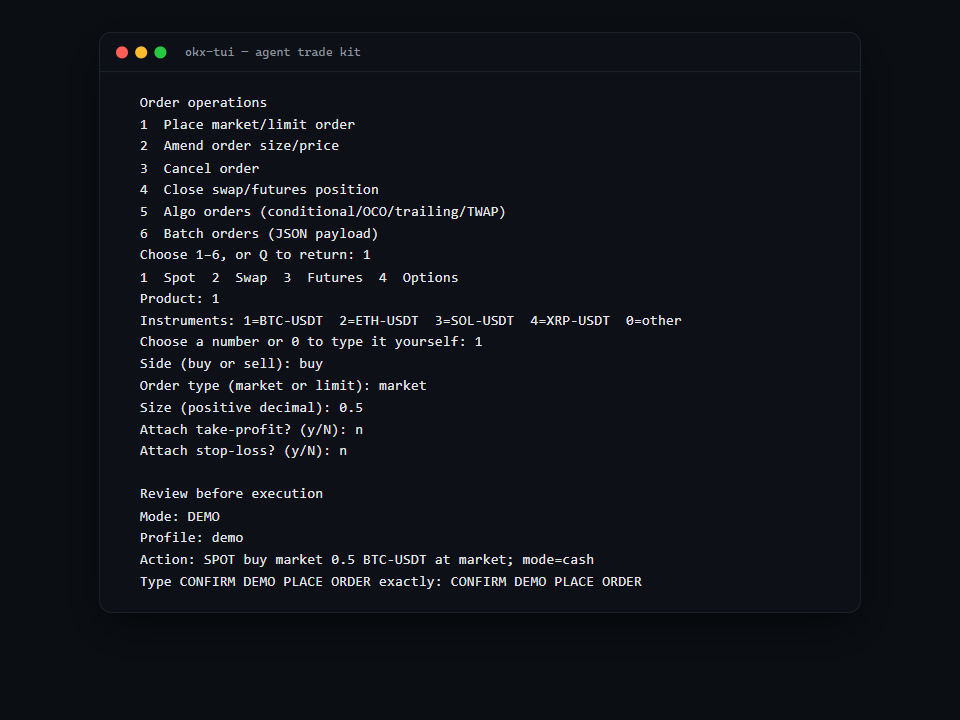
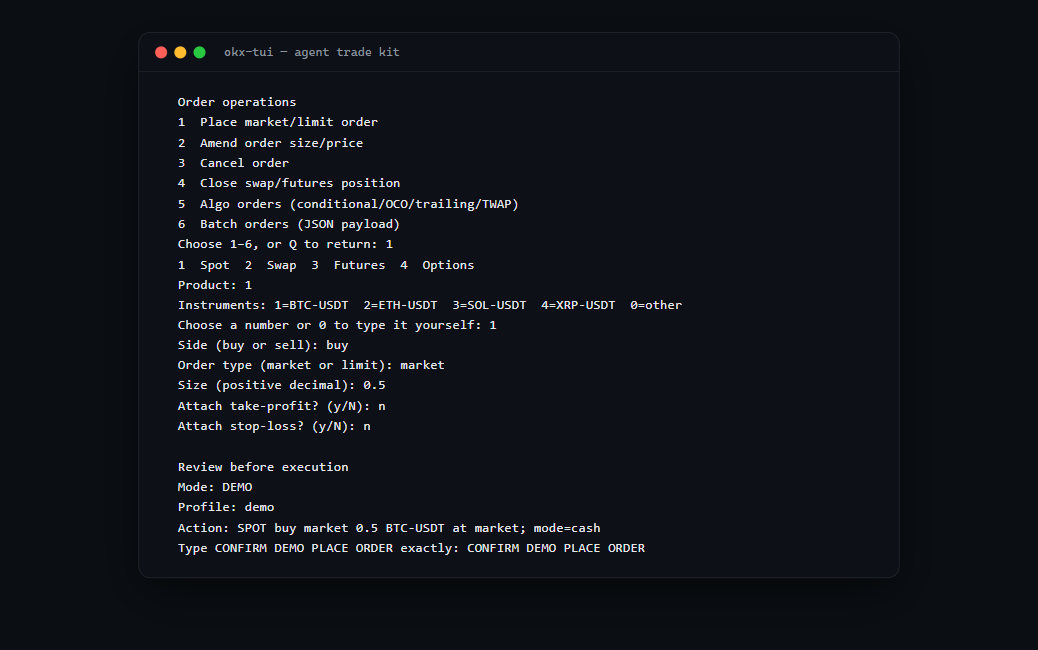
docs(cli): regenerate theming examples for the control-room layout
Generated with [Devin](https://devin.ai)

Changed region(s): [[0.125, 0.1231, 0.7188, 0.8615], [0.125, 0.0615, 0.375, 0.0923]]

diff --git a/docs/theming/examples/html/01-control-room.html b/docs/theming/examples/html/01-control-room.html
@@ -1,0 +1,43 @@
+<!doctype html><html><head><meta charset="utf-8"></head><body style="margin:0;background:#0b0f14;display:flex;justify-content:center;padding:32px;font-family:'Cascadia Code','Cascadia Mono',Consolas,Menlo,monospace">
+<div style="background:#0d1117;border:1px solid #21262d;border-radius:12px;box-shadow:0 16px 48px rgba(0,0,0,.55);min-width:760px;max-width:1240px">
+<div style="display:flex;align-items:center;gap:7px;padding:12px 16px;border-bottom:1px solid #21262d">
+<span style="width:12px;height:12px;border-radius:50%;background:#ff5f57"></span><span style="width:12px;height:12px;border-radius:50%;background:#febc2e"></span><span style="width:12px;height:12px;border-radius:50%;background:#28c840"></span>
+<span style="margin-left:12px;color:#8b949e;font-size:12px">okx-tui — agent trade kit</span></div>
+<pre style="margin:0;padding:20px 24px;color:#e5e7eb;font-size:13.5px;line-height:1.5;white-space:pre-wrap"><span style="color:#22d3ee">◆ OKX</span>  Agent Trade Kit v1.4.8   |   <span style="color:#22d3ee">Bots</span>  ·  <span style="color:#6b7280">Markets</span>  ·  <span style="color:#6b7280">Account</span>  ·  <span style="color:#6b7280">Developer</span>  ·  <span style="color:#6b7280">Docs</span>                   <span style="color:#4ade80">DEMO</span>  <span style="color:#6b7280">Profile:</span> demo  <span style="color:#4ade80">API Connected</span>
+────────────────────────────────────────────────────────────────────────────────────────────────────────────────────────────────────────────
+┌<span style="color:#22d3ee"> Navigate </span>──────────────────┐┌<span style="color:#22d3ee"> Home </span>────────────────────────────────────────────────────────────────┐┌<span style="color:#22d3ee"> Configuration </span>─────────────────────┐
+│<span style="color:#6b7280">BOT CONFIGURATION</span>           ││<span style="color:#22d3ee">Create a new bot</span>  or pick any action on the left                      ││<span style="color:#6b7280">SUMMARY</span>                             │
+│ <span style="color:#22d3ee">w</span>  Create bot wizard       ││                                                                      ││Profile                             │
+│ <span style="color:#22d3ee">1</span>  My bots &amp; preview       ││<span style="color:#4ade80">❯</span> Press W and describe your idea — e.g. "grid bot BTC 100 USDT low ris││  demo                              │
+│ <span style="color:#22d3ee">2</span>  Bot operations          ││                                                                      ││Mode                                │
+│<span style="color:#6b7280">MARKETS</span>                     ││<span style="color:#6b7280">EXAMPLES</span>                                                              ││  DEMO                              │
+│ <span style="color:#22d3ee">4</span>  Market data             ││  Grid bot with 100 USDT on BTC, low risk                             ││                                    │
+│ <span style="color:#22d3ee">5</span>  Analytics &amp; indicators  ││  DCA into ETH every dip, medium risk                                 ││<span style="color:#6b7280">VALIDATION</span>                          │
+│ <span style="color:#22d3ee">6</span>  Event contracts         ││  Contract grid on SOL with leverage                                  ││<span style="color:#4ade80">✓</span> API connection                    │
+│<span style="color:#6b7280">ACCOUNT</span>                     ││                                                                      ││  DEMO profile                      │
+│ <span style="color:#22d3ee">7</span>  Overview &amp; limits       ││<span style="color:#6b7280">QUICK ACTIONS</span>                                                         ││<span style="color:#4ade80">✓</span> Trading mode                      │
+│ <span style="color:#22d3ee">8</span>  Positions &amp; activity    ││  <span style="color:#22d3ee">1</span>  My bots             <span style="color:#22d3ee">7</span>  Account overview                          ││  demo                              │
+│ <span style="color:#22d3ee">9</span>  Trading operations      ││  <span style="color:#22d3ee">4</span>  Market data         <span style="color:#22d3ee">8</span>  Positions &amp; activity                      ││<span style="color:#6b7280">•</span> Active flow                       │
+│ <span style="color:#22d3ee">0</span>  Earn operations         ││  <span style="color:#22d3ee">9</span>  Funds &amp; transfers   <span style="color:#22d3ee">c</span>  Profiles &amp; API keys                       ││  select an action to preview       │
+│<span style="color:#6b7280">INSIGHTS</span>                    ││                                                                      ││                                    │
+│ <span style="color:#22d3ee">a</span>  News &amp; sentiment        ││<span style="color:#fbbf24">Financial actions preview first</span> — nothing executes without an exact co││                                    │
+│ <span style="color:#22d3ee">b</span>  Smart money             ││                                                                      ││                                    │
+│ <span style="color:#22d3ee">k</span>  Earn overview           ││                                                                      ││                                    │
+│<span style="color:#6b7280">TOOLS</span>                       ││                                                                      ││                                    │
+│ <span style="color:#22d3ee">c</span>  Profiles &amp; API keys     ││                                                                      ││                                    │
+│ <span style="color:#22d3ee">e</span>  MCP clients             ││                                                                      ││                                    │
+│ <span style="color:#22d3ee">f</span>  Authentication          ││                                                                      ││                                    │
+│ <span style="color:#22d3ee">g</span>  Health &amp; updates        ││                                                                      ││                                    │
+│ <span style="color:#22d3ee">h</span>  Skills marketplace      ││                                                                      ││                                    │
+│                            ││                                                                      ││                                    │
+│q  Quit dashboard           ││                                                                      ││                                    │
+└────────────────────────────┘└──────────────────────────────────────────────────────────────────────┘└────────────────────────────────────┘
+┌<span style="color:#22d3ee"> CLI Logs — L for fullscreen </span>─────────────────────────────────────────────────────────────────────────────────────────────────────────────┐
+│<span style="color:#6b7280">14:42:15</span> <span style="color:#22d3ee">INFO </span> $ okx market ticker BTC-USDT                                                                                               │
+│<span style="color:#6b7280">14:42:15</span> <span style="color:#22d3ee">INFO </span> instId: BTC-USDT  last: 64247.3  vol24h: 8192.44                                                                           │
+│<span style="color:#6b7280">14:42:15</span> <span style="color:#22d3ee">INFO </span> exit 0 — L for full log                                                                                                    │
+└──────────────────────────────────────────────────────────────────────────────────────────────────────────────────────────────────────────┘
+<span style="color:#4ade80">BTC 64247.3</span>   <span style="color:#4ade80">ETH 2403.4</span>   <span style="color:#4ade80">SOL 162.4</span>                                                                                      <span style="color:#6b7280">refreshed 14:42:15</span>
+<span style="color:#6b7280">Keys</span> <span style="color:#22d3ee">w/1-9/0/a-h</span> select  <span style="color:#22d3ee">L</span> logs  <span style="color:#22d3ee">R</span> refresh  <span style="color:#22d3ee">Q</span> quit                                                                                          
+  › </pre>
+</div></body></html>

diff --git a/docs/theming/examples/html/02-bot-wizard.html b/docs/theming/examples/html/02-bot-wizard.html
@@ -1,0 +1,43 @@
+<!doctype html><html><head><meta charset="utf-8"></head><body style="margin:0;background:#0b0f14;display:flex;justify-content:center;padding:32px;font-family:'Cascadia Code','Cascadia Mono',Consolas,Menlo,monospace">
+<div style="background:#0d1117;border:1px solid #21262d;border-radius:12px;box-shadow:0 16px 48px rgba(0,0,0,.55);min-width:760px;max-width:1240px">
+<div style="display:flex;align-items:center;gap:7px;padding:12px 16px;border-bottom:1px solid #21262d">
+<span style="width:12px;height:12px;border-radius:50%;background:#ff5f57"></span><span style="width:12px;height:12px;border-radius:50%;background:#febc2e"></span><span style="width:12px;height:12px;border-radius:50%;background:#28c840"></span>
+<span style="margin-left:12px;color:#8b949e;font-size:12px">okx-tui — agent trade kit</span></div>
+<pre style="margin:0;padding:20px 24px;color:#e5e7eb;font-size:13.5px;line-height:1.5;white-space:pre-wrap"><span style="color:#22d3ee">◆ OKX</span>  Agent Trade Kit v1.4.8   |   <span style="color:#22d3ee">Bots</span>  ·  <span style="color:#6b7280">Markets</span>  ·  <span style="color:#6b7280">Account</span>  ·  <span style="color:#6b7280">Developer</span>  ·  <span style="color:#6b7280">Docs</span>                   <span style="color:#4ade80">DEMO</span>  <span style="color:#6b7280">Profile:</span> demo  <span style="color:#4ade80">API Connected</span>
+────────────────────────────────────────────────────────────────────────────────────────────────────────────────────────────────────────────
+┌<span style="color:#22d3ee"> Navigate </span>──────────────────┐┌<span style="color:#22d3ee"> Create bot · 6/6 </span>────────────────────────────────────────────────────┐┌<span style="color:#22d3ee"> Configuration </span>─────────────────────┐
+│<span style="color:#6b7280">BOT CONFIGURATION</span>           ││  Step 6 · Preview &amp; deploy                                           ││<span style="color:#6b7280">SUMMARY</span>                             │
+│ <span style="color:#22d3ee">w</span>  Create bot wizard       ││  Create spot grid on BTC-USDT; range=60000–70000; levels=20; capital=││Profile                             │
+│ <span style="color:#22d3ee">1</span>  My bots &amp; preview       ││                                                                      ││  demo                              │
+│ <span style="color:#22d3ee">2</span>  Bot operations          ││  Review before execution                                             ││Mode                                │
+│<span style="color:#6b7280">MARKETS</span>                     ││  Mode: DEMO                                                          ││  DEMO                              │
+│ <span style="color:#22d3ee">4</span>  Market data             ││  Profile: demo                                                       ││Strategy                            │
+│ <span style="color:#22d3ee">5</span>  Analytics &amp; indicators  ││  Action: Create grid on BTC-USDT; range=60000–70000; levels=20; capit││  Grid trading                      │
+│ <span style="color:#22d3ee">6</span>  Event contracts         ││  Type CONFIRM DEMO CREATE BOT exactly:                               ││Pair                                │
+│<span style="color:#6b7280">ACCOUNT</span>                     ││                                                                      ││  BTC-USDT                          │
+│ <span style="color:#22d3ee">7</span>  Overview &amp; limits       ││                                                                      ││Capital                             │
+│ <span style="color:#22d3ee">8</span>  Positions &amp; activity    ││                                                                      ││  100 USDT                          │
+│ <span style="color:#22d3ee">9</span>  Trading operations      ││                                                                      ││Price range                         │
+│ <span style="color:#22d3ee">0</span>  Earn operations         ││                                                                      ││  60000 – 70000                     │
+│<span style="color:#6b7280">INSIGHTS</span>                    ││                                                                      ││Grids                               │
+│ <span style="color:#22d3ee">a</span>  News &amp; sentiment        ││                                                                      ││  20                                │
+│ <span style="color:#22d3ee">b</span>  Smart money             ││                                                                      ││Risk level                          │
+│ <span style="color:#22d3ee">k</span>  Earn overview           ││                                                                      ││  low                               │
+│<span style="color:#6b7280">TOOLS</span>                       ││                                                                      ││Environment                         │
+│ <span style="color:#22d3ee">c</span>  Profiles &amp; API keys     ││                                                                      ││  DEMO                              │
+│ <span style="color:#22d3ee">e</span>  MCP clients             ││                                                                      ││                                    │
+│ <span style="color:#22d3ee">f</span>  Authentication          ││                                                                      ││<span style="color:#6b7280">VALIDATION</span>                          │
+│ <span style="color:#22d3ee">g</span>  Health &amp; updates        ││                                                                      ││<span style="color:#4ade80">✓</span> API connection                    │
+│ <span style="color:#22d3ee">h</span>  Skills marketplace      ││                                                                      ││  DEMO profile                      │
+│                            ││                                                                      ││<span style="color:#4ade80">✓</span> Trading mode                      │
+│q  Quit dashboard           ││                                                                      ││  demo                              │
+└────────────────────────────┘└──────────────────────────────────────────────────────────────────────┘└────────────────────────────────────┘
+┌<span style="color:#22d3ee"> CLI Logs — L for fullscreen </span>─────────────────────────────────────────────────────────────────────────────────────────────────────────────┐
+│<span style="color:#6b7280">14:42:15</span> <span style="color:#22d3ee">INFO </span> $ okx market ticker BTC-USDT                                                                                               │
+│<span style="color:#6b7280">14:42:15</span> <span style="color:#22d3ee">INFO </span> instId: BTC-USDT  last: 64247.3  vol24h: 8192.44                                                                           │
+│<span style="color:#6b7280">14:42:15</span> <span style="color:#22d3ee">INFO </span> exit 0 — L for full log                                                                                                    │
+└──────────────────────────────────────────────────────────────────────────────────────────────────────────────────────────────────────────┘
+<span style="color:#4ade80">BTC 64247.3</span>   <span style="color:#4ade80">ETH 2403.4</span>   <span style="color:#4ade80">SOL 162.4</span>                                                                                      <span style="color:#6b7280">refreshed 14:42:15</span>
+<span style="color:#6b7280">Keys</span> <span style="color:#22d3ee">w/1-9/0/a-h</span> select  <span style="color:#22d3ee">L</span> logs  <span style="color:#22d3ee">R</span> refresh  <span style="color:#22d3ee">Q</span> quit                                                                                          
+</pre>
+</div></body></html>

diff --git a/docs/theming/examples/html/07-compact-dashboard.html b/docs/theming/examples/html/07-compact-dashboard.html
@@ -1,9 +1,9 @@
-<!doctype html><html><body style="margin:0;background:#0b0f14;display:flex;justify-content:center;padding:32px;font-family:'Cascadia Code','Cascadia Mono',Consolas,Menlo,monospace">
+<!doctype html><html><head><meta charset="utf-8"></head><body style="margin:0;background:#0b0f14;display:flex;justify-content:center;padding:32px;font-family:'Cascadia Code','Cascadia Mono',Consolas,Menlo,monospace">
 <div style="background:#0d1117;border:1px solid #21262d;border-radius:12px;box-shadow:0 16px 48px rgba(0,0,0,.55);min-width:760px;max-width:900px">
 <div style="display:flex;align-items:center;gap:7px;padding:12px 16px;border-bottom:1px solid #21262d">
 <span style="width:12px;height:12px;border-radius:50%;background:#ff5f57"></span><span style="width:12px;height:12px;border-radius:50%;background:#febc2e"></span><span style="width:12px;height:12px;border-radius:50%;background:#28c840"></span>
 <span style="margin-left:12px;color:#8b949e;font-size:12px">okx-tui — agent trade kit</span></div>
-<pre style="margin:0;padding:20px 24px;color:#e5e7eb;font-size:14.5px;line-height:1.5;white-space:pre-wrap">┌──────────────────────────────────────────────────────────────────────────┐
+<pre style="margin:0;padding:20px 24px;color:#e5e7eb;font-size:13.5px;line-height:1.5;white-space:pre-wrap">┌──────────────────────────────────────────────────────────────────────────┐
 │<span style="color:#22d3ee">  AGENT TRADE KIT</span>                                                         │
 │  Terminal control room  ·  v1.4.8                                       │
 ├──────────────────────────────────────────────────────────────────────────┤
@@ -16,17 +16,18 @@
 │  CONFIG       C:/Users/you/.okx/config.toml                              │
 │                                                                          │
 │  ACTIONS                                                                 │
-│<span style="color:#22d3ee">  1  </span>  Yield &amp; insights                                                   │
-│<span style="color:#22d3ee">  2  </span>  MCP client integrations                                            │
-│<span style="color:#22d3ee">  3  </span>  Authentication                                                     │
-│<span style="color:#22d3ee">  4  </span>  Health, Pilot &amp; updates                                            │
-│<span style="color:#22d3ee">  5  </span>  Tools &amp; skills                                                     │
-│<span style="color:#22d3ee">  B  </span>  Back to simple menu                                                │
+│<span style="color:#22d3ee">  1  </span>  Account overview                                                   │
+│<span style="color:#22d3ee">  2  </span>  Positions &amp; activity                                               │
+│<span style="color:#22d3ee">  3  </span>  Market data                                                        │
+│<span style="color:#22d3ee">  4  </span>  Trading bot monitor                                                │
+│<span style="color:#22d3ee">  5  </span>  Trading &amp; funds operations                                         │
+│<span style="color:#22d3ee">  6  </span>  Profile manager                                                    │
+│<span style="color:#22d3ee">  A  </span>  Advanced tools                                                     │
 │<span style="color:#22d3ee">  Q  </span>  Quit                                                               │
 ├──────────────────────────────────────────────────────────────────────────┤
 │  Financial actions preview first and need an exact confirmation.         │
-│  Select 1–5, B to go back, or Q to exit.                                 │
+│  Select 1–6, A for more tools, or Q to exit.                             │
 └──────────────────────────────────────────────────────────────────────────┘
 
-  Choose an action [1–5, B, Q]: </pre>
+  Choose an action [1–6, A, Q]: </pre>
 </div></body></html>

diff --git a/docs/theming/examples/html/03-mutation-menu.html b/docs/theming/examples/html/03-mutation-menu.html
@@ -1,9 +1,9 @@
-<!doctype html><html><body style="margin:0;background:#0b0f14;display:flex;justify-content:center;padding:32px;font-family:'Cascadia Code','Cascadia Mono',Consolas,Menlo,monospace">
-<div style="background:#0d1117;border:1px solid #21262d;border-radius:12px;box-shadow:0 16px 48px rgba(0,0,0,.55);min-width:760px;max-width:900px">
+<!doctype html><html><head><meta charset="utf-8"></head><body style="margin:0;background:#0b0f14;display:flex;justify-content:center;padding:32px;font-family:'Cascadia Code','Cascadia Mono',Consolas,Menlo,monospace">
+<div style="background:#0d1117;border:1px solid #21262d;border-radius:12px;box-shadow:0 16px 48px rgba(0,0,0,.55);min-width:760px;max-width:1240px">
 <div style="display:flex;align-items:center;gap:7px;padding:12px 16px;border-bottom:1px solid #21262d">
 <span style="width:12px;height:12px;border-radius:50%;background:#ff5f57"></span><span style="width:12px;height:12px;border-radius:50%;background:#febc2e"></span><span style="width:12px;height:12px;border-radius:50%;background:#28c840"></span>
 <span style="margin-left:12px;color:#8b949e;font-size:12px">okx-tui — agent trade kit</span></div>
-<pre style="margin:0;padding:20px 24px;color:#e5e7eb;font-size:14.5px;line-height:1.5;white-space:pre-wrap">
+<pre style="margin:0;padding:20px 24px;color:#e5e7eb;font-size:13.5px;line-height:1.5;white-space:pre-wrap">
   Trading &amp; funds operations
   Active mode: DEMO — every operation needs a second confirmation.
   1  Spot/swap/futures/options orders and closes

diff --git a/docs/theming/examples/html/04-order-preview-confirmation.html b/docs/theming/examples/html/04-order-preview-confirmation.html
@@ -1,9 +1,9 @@
-<!doctype html><html><body style="margin:0;background:#0b0f14;display:flex;justify-content:center;padding:32px;font-family:'Cascadia Code','Cascadia Mono',Consolas,Menlo,monospace">
-<div style="background:#0d1117;border:1px solid #21262d;border-radius:12px;box-shadow:0 16px 48px rgba(0,0,0,.55);min-width:760px;max-width:900px">
+<!doctype html><html><head><meta charset="utf-8"></head><body style="margin:0;background:#0b0f14;display:flex;justify-content:center;padding:32px;font-family:'Cascadia Code','Cascadia Mono',Consolas,Menlo,monospace">
+<div style="background:#0d1117;border:1px solid #21262d;border-radius:12px;box-shadow:0 16px 48px rgba(0,0,0,.55);min-width:760px;max-width:1240px">
 <div style="display:flex;align-items:center;gap:7px;padding:12px 16px;border-bottom:1px solid #21262d">
 <span style="width:12px;height:12px;border-radius:50%;background:#ff5f57"></span><span style="width:12px;height:12px;border-radius:50%;background:#febc2e"></span><span style="width:12px;height:12px;border-radius:50%;background:#28c840"></span>
 <span style="margin-left:12px;color:#8b949e;font-size:12px">okx-tui — agent trade kit</span></div>
-<pre style="margin:0;padding:20px 24px;color:#e5e7eb;font-size:14.5px;line-height:1.5;white-space:pre-wrap">
+<pre style="margin:0;padding:20px 24px;color:#e5e7eb;font-size:13.5px;line-height:1.5;white-space:pre-wrap">
   Order operations
   1  Place market/limit order
   2  Amend order size/price

diff --git a/docs/theming/examples/html/06-installed-skills.html b/docs/theming/examples/html/06-installed-skills.html
@@ -1,9 +1,9 @@
-<!doctype html><html><body style="margin:0;background:#0b0f14;display:flex;justify-content:center;padding:32px;font-family:'Cascadia Code','Cascadia Mono',Consolas,Menlo,monospace">
-<div style="background:#0d1117;border:1px solid #21262d;border-radius:12px;box-shadow:0 16px 48px rgba(0,0,0,.55);min-width:760px;max-width:900px">
+<!doctype html><html><head><meta charset="utf-8"></head><body style="margin:0;background:#0b0f14;display:flex;justify-content:center;padding:32px;font-family:'Cascadia Code','Cascadia Mono',Consolas,Menlo,monospace">
+<div style="background:#0d1117;border:1px solid #21262d;border-radius:12px;box-shadow:0 16px 48px rgba(0,0,0,.55);min-width:760px;max-width:1240px">
 <div style="display:flex;align-items:center;gap:7px;padding:12px 16px;border-bottom:1px solid #21262d">
 <span style="width:12px;height:12px;border-radius:50%;background:#ff5f57"></span><span style="width:12px;height:12px;border-radius:50%;background:#febc2e"></span><span style="width:12px;height:12px;border-radius:50%;background:#28c840"></span>
 <span style="margin-left:12px;color:#8b949e;font-size:12px">okx-tui — agent trade kit</span></div>
-<pre style="margin:0;padding:20px 24px;color:#e5e7eb;font-size:14.5px;line-height:1.5;white-space:pre-wrap">
+<pre style="margin:0;padding:20px 24px;color:#e5e7eb;font-size:13.5px;line-height:1.5;white-space:pre-wrap">
   Tools &amp; skills
   1  Browse tool catalog
   2  Search skill marketplace

diff --git a/docs/theming/examples/html/05-bot-monitor-menu.html b/docs/theming/examples/html/05-bot-monitor-menu.html
@@ -1,9 +1,9 @@
-<!doctype html><html><body style="margin:0;background:#0b0f14;display:flex;justify-content:center;padding:32px;font-family:'Cascadia Code','Cascadia Mono',Consolas,Menlo,monospace">
-<div style="background:#0d1117;border:1px solid #21262d;border-radius:12px;box-shadow:0 16px 48px rgba(0,0,0,.55);min-width:760px;max-width:900px">
+<!doctype html><html><head><meta charset="utf-8"></head><body style="margin:0;background:#0b0f14;display:flex;justify-content:center;padding:32px;font-family:'Cascadia Code','Cascadia Mono',Consolas,Menlo,monospace">
+<div style="background:#0d1117;border:1px solid #21262d;border-radius:12px;box-shadow:0 16px 48px rgba(0,0,0,.55);min-width:760px;max-width:1240px">
 <div style="display:flex;align-items:center;gap:7px;padding:12px 16px;border-bottom:1px solid #21262d">
 <span style="width:12px;height:12px;border-radius:50%;background:#ff5f57"></span><span style="width:12px;height:12px;border-radius:50%;background:#febc2e"></span><span style="width:12px;height:12px;border-radius:50%;background:#28c840"></span>
 <span style="margin-left:12px;color:#8b949e;font-size:12px">okx-tui — agent trade kit</span></div>
-<pre style="margin:0;padding:20px 24px;color:#e5e7eb;font-size:14.5px;line-height:1.5;white-space:pre-wrap">
+<pre style="margin:0;padding:20px 24px;color:#e5e7eb;font-size:13.5px;line-height:1.5;white-space:pre-wrap">
   Trading bot monitor
   1  Grid orders
   2  Grid details

diff --git a/packages/cli/README.md b/packages/cli/README.md
@@ -65,7 +65,9 @@ Launch the interactive control room with:
 okx-tui
 ```
 
-The dashboard opens in a simplified view for everyday use — balances, positions, market data, bots, trading operations, and profiles — while specialist tools (Earn/news/smart-money insights, MCP clients, authentication, health/Pilot, and skills) live behind the `A` advanced toggle. Common instruments are offered as numbered pick lists (manual entry stays available via `0`), and optional fields can be left blank to keep exchange defaults.
+On terminals of at least 110×35 the dashboard opens as a multi-pane control room: a header with mode/profile/API status, a grouped sidebar (bot configuration, markets, account, insights, tools) navigable by single-key shortcuts, a main pane with a guided **create-bot wizard** (`W`) that accepts a natural-language intent line (e.g. `grid bot BTC 100 USDT low risk`) and shows a live configuration summary with validation checks in the right inspector, and a bottom CLI-logs pane that captures every command's output (`L` for fullscreen, `R` to refresh tickers). Command output is captured into the log pane; interactive flows such as `config init` still run fullscreen. Smaller terminals automatically fall back to the compact single-box dashboard.
+
+The compact view offers balances, positions, market data, bots, trading operations, and profiles — with specialist tools (Earn/news/smart-money insights, MCP clients, authentication, health/Pilot, and skills) behind the `A` advanced toggle. Common instruments are offered as numbered pick lists (manual entry stays available via `0`), and optional fields can be left blank to keep exchange defaults.
 
 It includes account balances/limits (including per-instrument leverage settings), position/order/fill history with per-order detail lookup, market and options analytics, event-contract discovery, grid/DCA bot details plus a grid liquidation-price calculator, Earn and Auto-Earn monitoring, news/calendar/sentiment with article detail, smart-money drill-downs, marketplace skill management (installed-skills view covers both the CLI registry and `~/.agents/skills`), profile management, MCP client setup, OAuth/helper lifecycle, diagnostics, Pilot lifecycle, CLI/MCP upgrades, and tool discovery. Client setup, auth changes, and software installs/removals/upgrades require exact confirmation; MCP capability setup defaults to market-only data, while full access requires a separate opt-in. Credential entry is launched from the dashboard's profile manager and runs in the existing `okx config init` wizard. The dashboard never displays API secrets.
 

diff --git a/docs/theming/examples/README.md b/docs/theming/examples/README.md
@@ -6,17 +6,18 @@ reference when restyling the terminal theme.
 
 | File | Screen |
 | --- | --- |
-| `01-dashboard-simple.png` | Default simplified home view for everyday use |
-| `02-dashboard-advanced.png` | Advanced menu behind the `A` toggle |
-| `03-trading-operations-menu.png` | `Trading & funds operations` submenu |
+| `01-control-room.png` | Multi-pane control room: header with mode/profile/API status, grouped sidebar, home pane, configuration inspector, CLI log pane, and ticker status bar |
+| `02-bot-wizard.png` | Create-bot wizard at the deploy step: preview text, `CONFIRM DEMO …` prompt, live inspector summary, and validation checklist |
+| `03-mutation-menu.png` | Trading operations submenu (orders, transfers, bots, Earn, events) |
 | `04-order-preview-confirmation.png` | Order flow with instrument pick list, TP/SL prompts, and the exact `CONFIRM DEMO …` preview |
 | `05-bot-monitor-menu.png` | Grid/DCA bot monitoring submenu |
 | `06-installed-skills.png` | Installed-skills view (`~/.agents/skills` scan + registry) |
+| `07-compact-dashboard.png` | Compact single-box fallback used on terminals smaller than 110×35 |
 
 ## Regenerating
 
 Run the generator from the repository root — it writes terminal-styled HTML to
-`html/` next to this file; screenshot each page at ~960×720 to produce the PNGs:
+`html/` next to this file; screenshot each page to produce the PNGs:
 
 ```bash
 pnpm --filter @okx_ai/okx-trade-cli exec tsx ../../docs/theming/examples/generate.mjs
